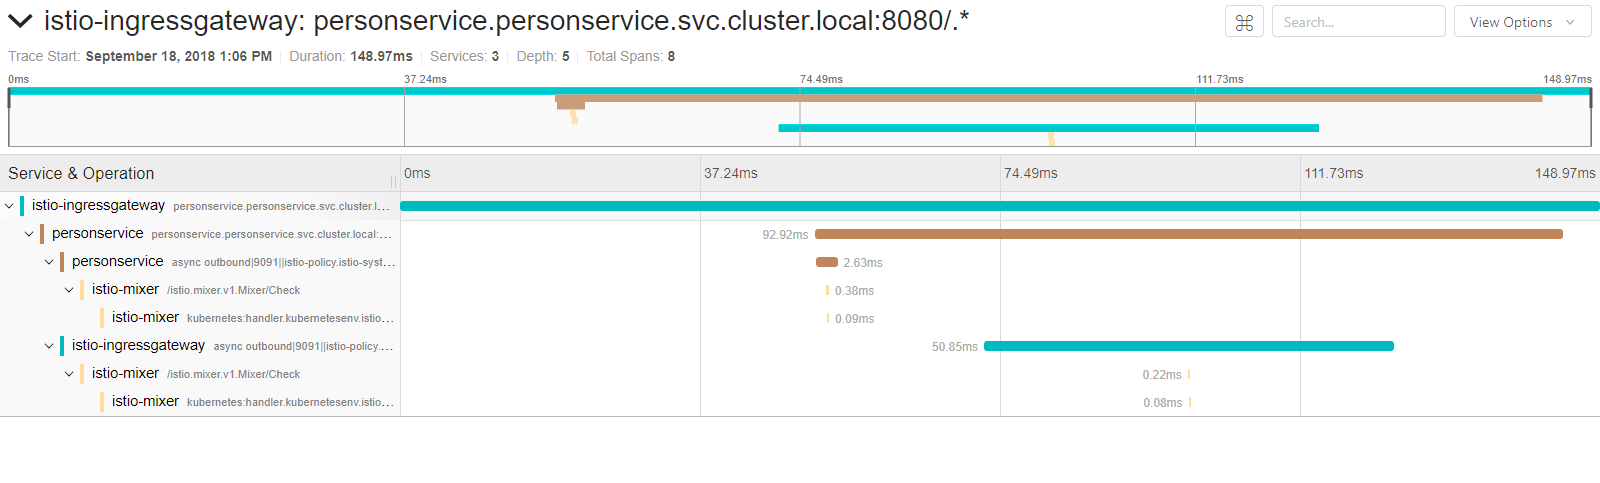
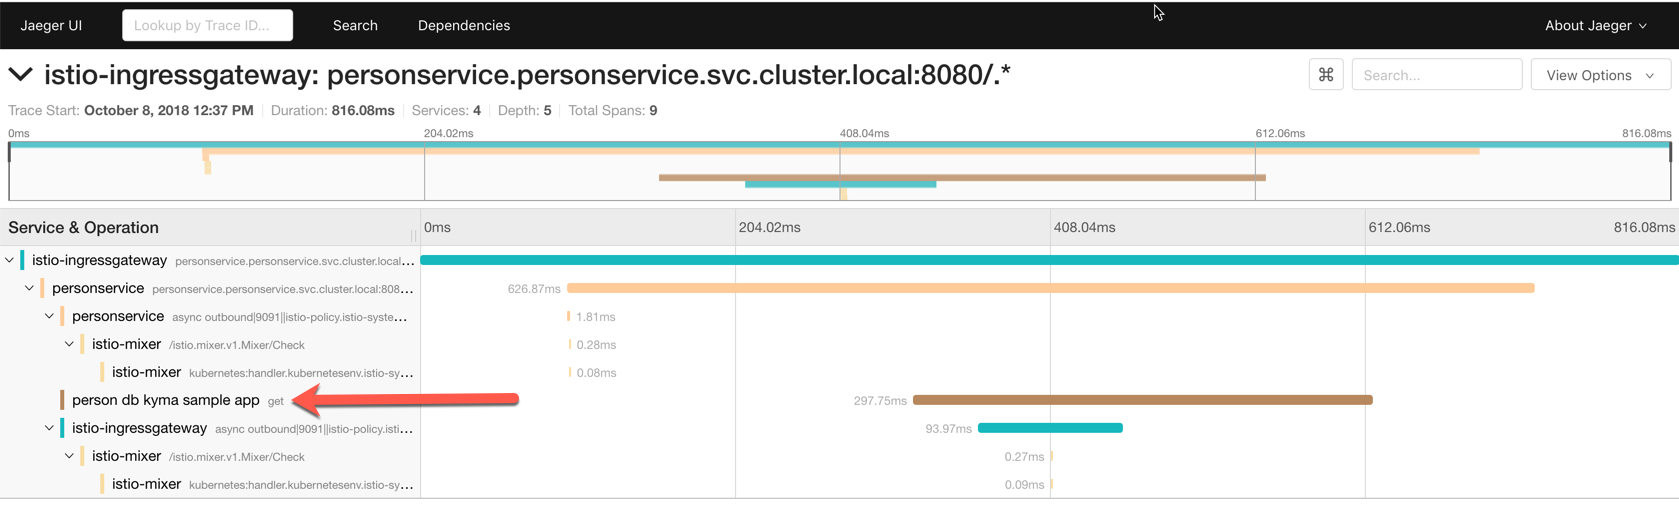
Adding Tracing Integration to Spring Updated Tracing section in Readme

diff --git a/personservice/src/main/java/com/sap/demo/log/LoggingAspect.java b/personservice/src/main/java/com/sap/demo/log/LoggingAspect.java
@@ -2,12 +2,7 @@ package com.sap.demo.log;
 
 import java.io.PrintWriter;
 import java.io.StringWriter;
-import java.util.Arrays;
-import java.util.stream.Collectors;
 
-import org.apache.commons.lang3.builder.RecursiveToStringStyle;
-import org.apache.commons.lang3.builder.ReflectionToStringBuilder;
-import org.apache.commons.lang3.builder.ToStringStyle;
 import org.aspectj.lang.ProceedingJoinPoint;
 import org.aspectj.lang.annotation.Around;
 import org.aspectj.lang.annotation.Aspect;
@@ -18,55 +13,19 @@ import org.springframework.core.Ordered;
 import org.springframework.core.annotation.Order;
 import org.springframework.stereotype.Component;
 
+import com.sap.demo.util.ReflectionUtils;
+
 @Aspect
 @Order(Ordered.LOWEST_PRECEDENCE)
 @Component
 public class LoggingAspect {
 
-	private final static ToStringStyle LOGGER_STYLE = new RecursiveToStringStyle();
 	
 
 	@Pointcut("within(com.sap.demo..*) && !@annotation(com.sap.demo.log.NoLogging)")
 	public void loggableClass() {
 	}
 	
-	
-	
-
-	private String objectToString(Object o) {
-		
-		try {
-			
-			if (o.getClass().getMethod("toString").getDeclaringClass() == o.getClass()) {
-				return o.toString();
-			} else {						
-				return ReflectionToStringBuilder.toString(o, LOGGER_STYLE, true, true);
-			}
-			
-		// Ignore Exception
-		} catch (NoSuchMethodException e) {
-			return "No Result";
-		} catch (SecurityException e) {
-			return "Not Accessible";
-		} 
-		
-	}
-
-	private String convertArgumentArrayToString(Object[] arguments) {
-
-		String result = "";
-
-		if (arguments != null) {
-
-			result = Arrays.stream(arguments)
-					.map(argument -> String.format("%s: %s", argument != null ? argument.getClass() : "null",
-							argument != null ? objectToString(argument) : "null"))
-					.collect(Collectors.joining("\n"));
-
-		}
-
-		return result;
-	}
 	
 	
 
@@ -81,7 +40,7 @@ public class LoggingAspect {
 			try {
 				if(log.isTraceEnabled()) {
 					String methodName = joinPoint.getSignature().toLongString();
-					String argumentString = convertArgumentArrayToString(joinPoint.getArgs());
+					String argumentString = ReflectionUtils.convertArgumentArrayToString(joinPoint.getArgs());
 
 					String traceTrace = String.format("Entering %s with Arguments:\n%s", methodName, argumentString);
 					
@@ -102,7 +61,7 @@ public class LoggingAspect {
 
 					String traceTrace = String.format("Exiting %s with result: %s", methodName,
 							result != null ? 
-									objectToString(result) : 
+									ReflectionUtils.objectToString(result) : 
 									"null");
 					
 					log.trace(traceTrace);

diff --git a/personservice/src/main/java/com/sap/demo/trace/TracingAspect.java b/personservice/src/main/java/com/sap/demo/trace/TracingAspect.java
@@ -1,0 +1,74 @@
+package com.sap.demo.trace;
+
+import org.aspectj.lang.ProceedingJoinPoint;
+import org.aspectj.lang.annotation.Around;
+import org.aspectj.lang.annotation.Aspect;
+import org.aspectj.lang.annotation.Pointcut;
+import org.springframework.beans.factory.annotation.Autowired;
+import org.springframework.stereotype.Component;
+
+import com.sap.demo.log.NoLogging;
+import com.sap.demo.util.ReflectionUtils;
+
+import brave.Span;
+import brave.Span.Kind;
+import brave.Tracer;
+
+@Component
+@Aspect
+public class TracingAspect {
+	
+	private final Tracer tracer;
+
+    @Autowired
+	public TracingAspect(Tracer tracer) {
+        this.tracer = tracer;
+    }
+	
+	
+	@Pointcut("@annotation(org.springframework.web.bind.annotation.GetMapping)"
+			+ " || @annotation(org.springframework.web.bind.annotation.PostMapping)"
+			+ " || @annotation(org.springframework.web.bind.annotation.RequestMapping)"
+			+ " || @annotation(org.springframework.web.bind.annotation.DeleteMapping)"
+			+ " || @annotation(org.springframework.web.bind.annotation.PutMapping)"
+			+ " || @annotation(org.springframework.web.bind.annotation.PatchMapping)")
+	public void traceMethod() {
+	}
+	
+	@Around("traceMethod()")
+	@NoLogging
+	public Object log(ProceedingJoinPoint joinPoint) throws Throwable {
+		
+		
+		Span span;
+		if((span = tracer.currentSpan()) == null) {
+			span = tracer.currentSpan()
+					.name(joinPoint.getSignature().toShortString())
+					.kind(Kind.SERVER)
+					.start();
+		}
+		
+		try {
+			span.tag("call", joinPoint.getSignature().toLongString());
+			
+			Object result = joinPoint.proceed();
+			span.finish();
+			return result;
+			
+		} catch(Exception e) {
+			
+			span.tag("Exception", e.getClass().getName());
+			
+			span.tag("ArgumentValues", ReflectionUtils.convertArgumentArrayToString(joinPoint.getArgs()));
+			span.error(e);
+			span.finish();
+			
+			throw e;
+				
+		}
+		
+		
+		
+	}
+	
+}

diff --git a/personservice/src/main/java/com/sap/demo/util/ReflectionUtils.java b/personservice/src/main/java/com/sap/demo/util/ReflectionUtils.java
@@ -1,0 +1,51 @@
+package com.sap.demo.util;
+
+import java.util.Arrays;
+import java.util.stream.Collectors;
+
+import org.apache.commons.lang3.builder.RecursiveToStringStyle;
+import org.apache.commons.lang3.builder.ReflectionToStringBuilder;
+import org.apache.commons.lang3.builder.ToStringStyle;
+
+
+
+public class ReflectionUtils {
+	
+	private final static ToStringStyle LOGGER_STYLE = new RecursiveToStringStyle();
+	
+	public static String objectToString(Object o) {
+		
+		try {
+			
+			if (o.getClass().getMethod("toString").getDeclaringClass() == o.getClass()) {
+				return o.toString();
+			} else {						
+				return ReflectionToStringBuilder.toString(o, LOGGER_STYLE, true, true);
+			}
+			
+		// Ignore Exception
+		} catch (NoSuchMethodException e) {
+			return "No Result";
+		} catch (SecurityException e) {
+			return "Not Accessible";
+		} 
+		
+	}
+
+	public static String convertArgumentArrayToString(Object[] arguments) {
+
+		String result = "";
+
+		if (arguments != null) {
+
+			result = Arrays.stream(arguments)
+					.map(argument -> String.format("%s: %s", argument != null ? argument.getClass() : "null",
+							argument != null ? objectToString(argument) : "null"))
+					.collect(Collectors.joining("\n"));
+
+		}
+
+		return result;
+	}
+
+}

diff --git a/personservice/README.md b/personservice/README.md
@@ -1148,8 +1148,8 @@ To embed all of this into our Spring Boot Application, no coding is necessary. A
 
 ```
 		<dependency> 
-    		<groupId>org.springframework.cloud</groupId>
-    		<artifactId>spring-cloud-starter-sleuth</artifactId>
+    			<groupId>org.springframework.cloud</groupId>
+    			<artifactId>spring-cloud-starter-zipkin</artifactId>
 		</dependency>
 ```
 
@@ -1162,36 +1162,24 @@ In our Spring app logging uses SLF4J and is mainly based on the `LoggingAspect.j
 
 ### Testing Tracing
 
-To test the tracing you need to launch the Jaeger UI. Jaeger is not exposed to the Internet and hence you need to expose it using kubectl.
+To test the tracing you need to launch the Jaeger UI. Details can be found under https://kyma-project.io/docs/latest/components/tracing. You can access the Jaeger UI either locally at https://jaeger.kyma.local or on a cluster at https://jaeger.{domain-of-kyma-cluster}.
 
-On Windows:
-```
-kubectl get pod -n kyma-system -l app=jaeger -o jsonpath="{.items[0].metadata.name}"
-
-take the result and set <pod_name> 
-
-kubectl port-forward -n kyma-system <pod name> 16686:16686
-```
-
-On Mac/Linux:
-```
-kubectl port-forward -n kyma-system $(kubectl get pod -n kyma-system -l app=jaeger -o jsonpath='{.items[0].metadata.name}') 16686:16686
-```
-
-Now you can invoke it under `http://localhost:16686`. Further details can be found here: https://kyma-project.io/docs/latest/components/tracing
 
 Now we send a simple GET to /api/v1/person. In Jaeger we will make the following selections:
 
-* Service: Personservice
+* Service: personservice
 * Limit Results: 20
 
 ![Tracing](images/tracing1.png)
 
-Selecting the relevant record we will se the following picture:
+Selecting the relevant record we will see the following picture (highlighting the Span created by our Spring Boot Application with application level data):
 
 ![Tracing](images/tracing2.png)
 
-This shows a simple request which is answered by the Personservice directly without propagation. It enters through Istio. Mixer ensures that all rules are followed and then the person service answers the request.
+
+This shows a simple request which is answered by the Personservice directly without propagation. It enters through Istio. Mixer ensures that all rules are followed and then the person service answers the request. The Application adds further tags to it, to make tracing more verbose:
+
+![Tracing](images/tracing6.png)
 
 Now we want to get more advanced and change a person which triggers a request to the events endpoint described in [Connect your Service to Kyma as Extension Platform](#connect-your-service-to-kyma-as-extension-platform). It will now also show up in the trace, but be more complex, as there is now also an outbound call to the events API (PATCH /api/v1/person/{id}).
 
